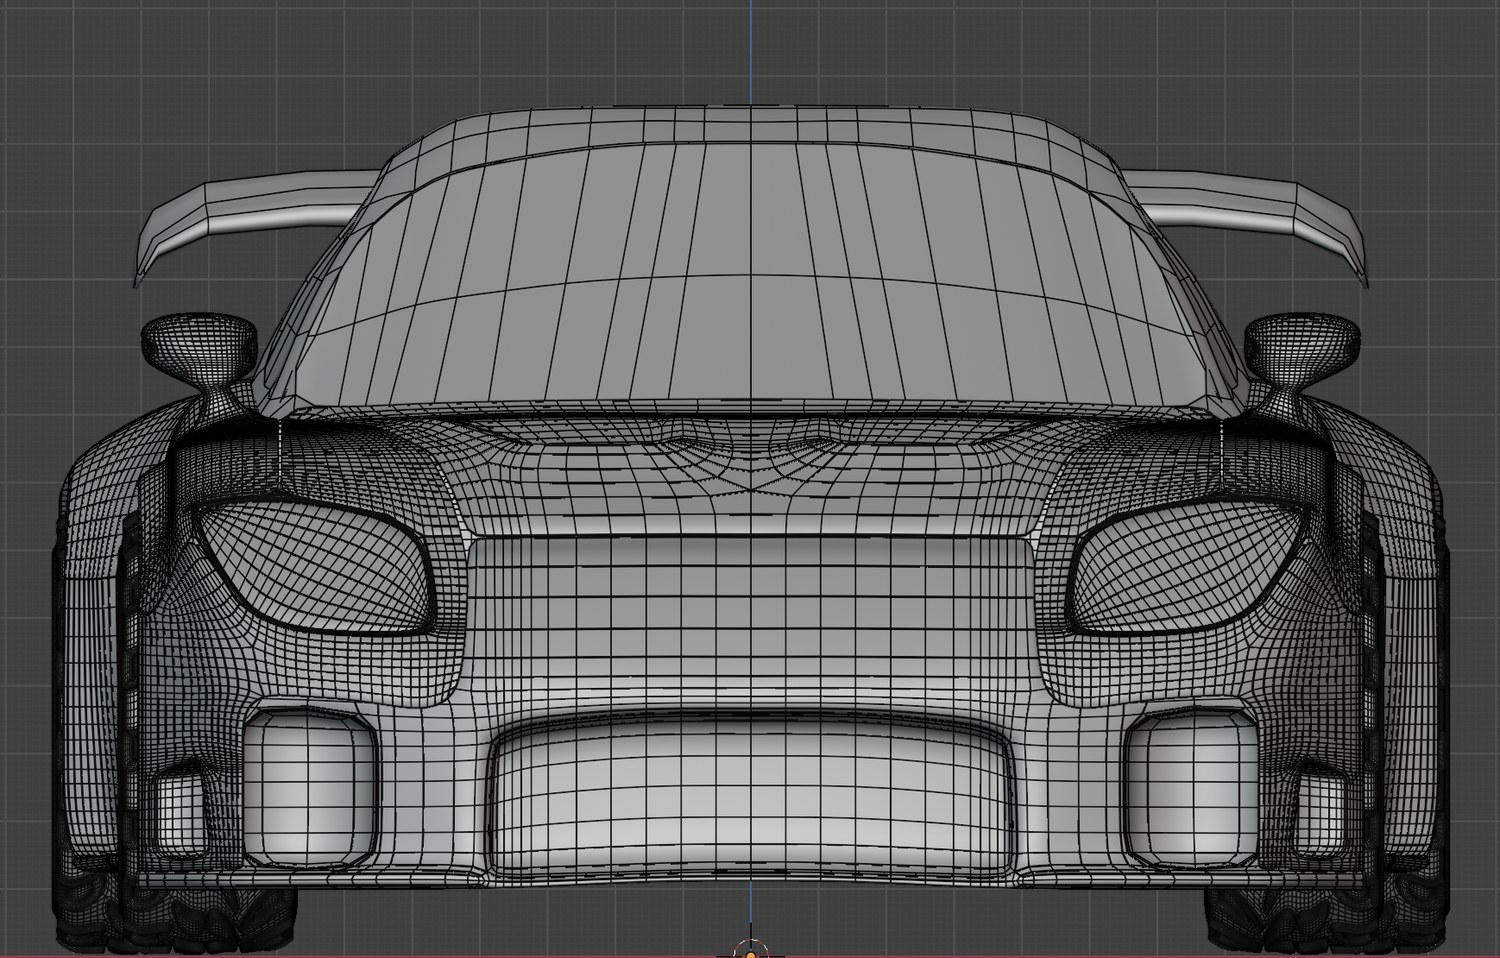
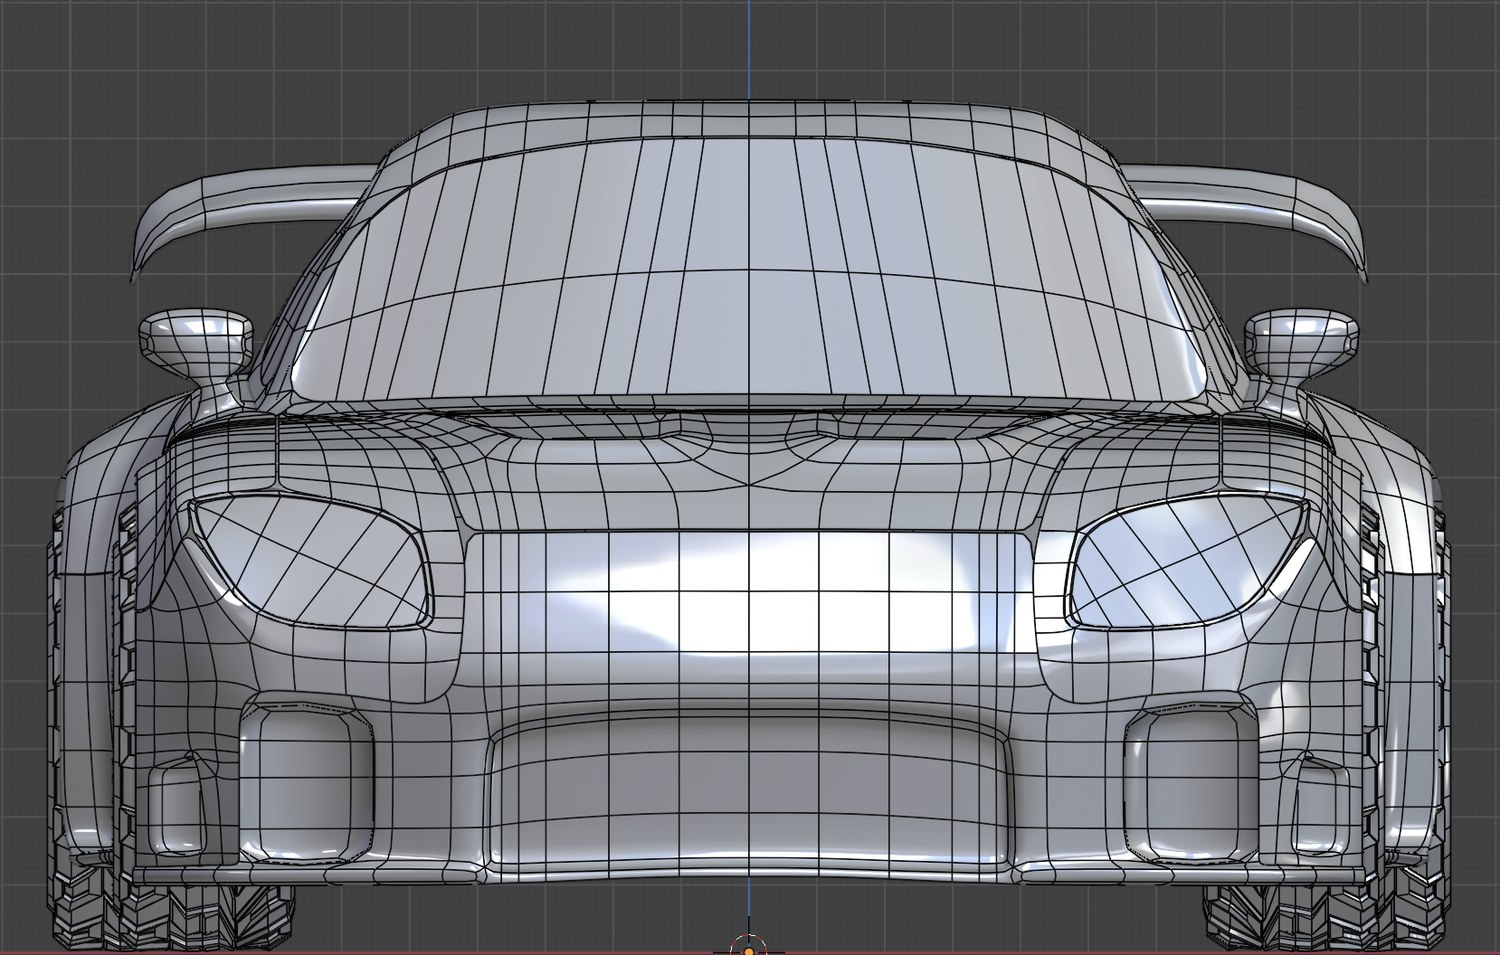
Add files via upload

diff --git a/index.html b/index.html
@@ -335,11 +335,6 @@
       <a class="card" href="making-birthday19.html" aria-label="小竹竜ノ介19歳誕生日予告のメイキングへ" data-ov-eyebrow="BIRTHDAY TEASER — 19歳・青春映画 / 2023" data-ov-title="小竹竜ノ介19歳誕生日予告" data-ov-sub="「5月31日小竹竜ノ介の誕生日だってよ」／青春映画風" data-ov-tags="実写映像,映画予告,誕生日予告" data-ov-text="大学という新環境で『質の高い動画を作る面白いやつがいる』と思わせ、誕生日を祝ってもらう——明確な目的で作った青春映画風の予告。走って転んでまた走る構成で最後まで見せ、実際に人脈が広がった自信作です。"><img src="https://img.youtube.com/vi/PqgRY7M-S2M/maxresdefault.jpg" onerror="this.onerror=null;this.src='https://img.youtube.com/vi/PqgRY7M-S2M/hqdefault.jpg'" alt="小竹竜ノ介19歳誕生日予告"><div class="ctag">映画予告</div><span>小竹竜ノ介19歳誕生日予告</span></a>
       <a class="card" href="making-birthday20.html" aria-label="小竹竜ノ介20歳誕生日予告のメイキングへ" data-ov-eyebrow="BIRTHDAY TEASER — 20歳・夢の問い直し / 2024" data-ov-title="小竹竜ノ介20歳誕生日予告" data-ov-sub="「スメルズライクティーンスピリット」／夢を問い直す物語の予告" data-ov-tags="実写映像,映画予告,誕生日予告" data-ov-text="20歳の節目に、夢を見失った青年コタケの前へ10歳のコタケがタイムスリップ。二人三脚でゲーム制作に挑む物語の予告編。「あくまで誕生日予告」の縛りを初めて解き、10歳の自分をCG合成（UEアセット＋自室スキャン）で隣に立たせた挑戦作です。"><img src="https://img.youtube.com/vi/Nx8aw06uRGk/maxresdefault.jpg" onerror="this.onerror=null;this.src='https://img.youtube.com/vi/Nx8aw06uRGk/hqdefault.jpg'" alt="小竹竜ノ介20歳誕生日予告"><div class="ctag">映画予告</div><span>小竹竜ノ介20歳誕生日予告</span></a>
       <a class="card" href="making-birthday21.html" aria-label="小竹竜ノ介21歳誕生日予告のメイキングへ" data-ov-eyebrow="BIRTHDAY TEASER — 21歳・選手紹介風CM / 2025" data-ov-title="小竹竜ノ介21歳誕生日予告" data-ov-sub="「21歳拳で」／格闘技の選手紹介風CM" data-ov-tags="実写映像,30秒CM,誕生日予告" data-ov-text="20歳ごろから日常的にネタを練るように。『21歳拳で』という有名ネットミームを決め台詞に、格闘技の選手紹介風の30秒CMへ。初のスタジオ撮影・予算投入・Log撮影、Blender背景への合成と、技術的な挑戦が一気に増えた一本です。"><img src="https://img.youtube.com/vi/ruV5QP93_dk/maxresdefault.jpg" onerror="this.onerror=null;this.src='https://img.youtube.com/vi/ruV5QP93_dk/hqdefault.jpg'" alt="小竹竜ノ介21歳誕生日予告"><div class="ctag">30秒CM</div><span>小竹竜ノ介21歳誕生日予告</span></a>
-      <div class="card" tabindex="0" role="button"><div class="ctag">ハイライト</div><span>イベント・ハイライト</span></div>
-      <div class="card" tabindex="0" role="button"><div class="ctag">MV</div><span>ミュージックビデオ</span></div>
-      <div class="card" tabindex="0" role="button"><div class="ctag">広告</div><span>プロモーション映像</span></div>
-      <div class="card" tabindex="0" role="button"><div class="ctag">ドキュメント</div><span>ドキュメント映像</span></div>
-      <div class="card" tabindex="0" role="button"><div class="ctag">種別</div><span>作品 05</span></div>
     </div>
   </section>
 
@@ -370,14 +365,10 @@
 
     <div class="more-lbl">CG — 他の作品</div>
     <div class="strip">
-      <div class="card" tabindex="0" role="button"><div class="ctag">ショート</div><span>3DショートフィルムＡ</span></div>
       <a class="card" href="making-sneaker.html" aria-label="スニーカー3DCGモデルのメイキングへ" data-ov-eyebrow="3DCG MODELING — スニーカー / 2023" data-ov-title="スニーカー 3DCGモデル" data-ov-sub="実物リファレンスからのフルCG制作" data-ov-tags="CG,服飾,モデリング" data-ov-text="自分で購入したスニーカーの実物を参考に、Blenderで一から3DCGモデルを制作。テクスチャはProcreateで手描きで自作しました。"><img src="sneaker-thumb.jpg" alt="スニーカー 3DCGモデル"><div class="badge3d" data-glb="sneaker.glb" data-poster="sneaker-render.jpg">3D</div><div class="ctag">服飾</div><span>スニーカー 3DCGモデル</span></a>
       <a class="card" href="making-first3d.html" aria-label="初めてのモデリングのメイキングへ" data-ov-eyebrow="3DCG MODELING — キャラクター / 2019" data-ov-title="初めてのモデリング" data-ov-sub="はじめて触れたBlender ／ 動かせる3Dモデル" data-ov-tags="CG,キャラクター,モデリング" data-ov-text="実写での映像制作に慣れてきた頃、表現の幅を広げたくて3DCGに挑戦。チュートリアルに沿ってモデリング〜スキニングまで行った、はじめてのBlender作品です。"><img src="first3d-thumb.jpg" alt="初めてのモデリング"><div class="badge3d" data-glb="first3d.glb" data-poster="first3d-render.jpg">3D</div><div class="ctag">キャラクター</div><span>初めてのモデリング</span></a>
       <a class="card" href="making-rx7.html" aria-label="RX-7 VEILSIDE仕様 3DCGモデルのメイキングへ" data-ov-eyebrow="3DCG MODELING — RX-7 VEILSIDE仕様 / 2021" data-ov-title="RX-7 VEILSIDE仕様 3DCGモデル" data-ov-sub="“ハンのRX-7”の再現（非公式・ファン制作）" data-ov-tags="CG,車,モデリング" data-ov-text="高2の夏『1日1モデリングチャレンジ』の締めくくり。『ワイルド・スピード』のハンのRX-7（VEILSIDE仕様）を3面図から起こし、映画『カーズ』冒頭を再現する動画にした習作です。"><img src="rx7-render.jpg" alt="RX-7 VEILSIDE仕様 3DCGモデル"><div class="badge3d" data-glb="rx7.glb" data-poster="rx7-render.jpg">3D</div><div class="ctag">車</div><span>RX-7 VEILSIDE仕様 3DCGモデル</span></a>
       <a class="card" href="making-challenge.html" aria-label="1日1モデリング 30日チャレンジのメイキングへ" data-ov-eyebrow="30-DAY CHALLENGE — Blender習得 / 2021" data-ov-title="1日1モデリング 30日チャレンジ" data-ov-sub="Blender習得のための30日間" data-ov-tags="CG,モデリング" data-ov-text="高2の夏、Blender習得のため『30日間・1日1モデリング』を決意しInstagramに毎日投稿。ガリガリくんに始まり、27日目のRX-7まで上達を重ねた30日間の記録です。"><img src="challenge-thumb.jpg" alt="1日1モデリング 30日チャレンジ"><div class="ctag">モデリング</div><span>1日1モデリング 30日チャレンジ</span></a>
-      <div class="card" tabindex="0" role="button"><div class="ctag">プロダクト</div><span>プロダクトCG</span></div>
-      <div class="card" tabindex="0" role="button"><div class="ctag">環境</div><span>環境・背景CG</span></div>
-      <div class="card" tabindex="0" role="button"><div class="ctag">モーション</div><span>モーショングラフィクス</span></div>
     </div>
   </section>
 
@@ -409,10 +400,6 @@
     <div class="strip">
       <a class="card" href="making-ibsevent.html" aria-label="校内イベントの撮影・配信・運営のメイキングへ" data-ov-eyebrow="LIVE &amp; EVENT — 校内イベントの撮影・配信 / 2017–2022" data-ov-title="校内イベントの撮影・配信・運営" data-ov-sub="カメラマン・スイッチャー・MC" data-ov-tags="ライブ配信,イベント,IBS" data-ov-text="体育祭・文化祭・入学式・卒業式などの校内イベントで、撮影・スイッチング・MC・配信を担当。カメラから全体の俯瞰へ、「なんでもやる」の原点になった経験です。"><img src="s2.jpg" alt="校内イベントの撮影・配信・運営"><div class="ctag">イベント</div><span>校内イベントの撮影・配信・運営</span></a>
       <a class="card" href="making-nyugaku2019.html" aria-label="入学式2019 OPのメイキングへ" data-ov-eyebrow="MC — 入学式の司会進行 / 2019" data-ov-title="入学式2019 OP" data-ov-sub="MC・進行" data-ov-tags="ライブ配信,MC,イベント,IBS" data-ov-text="郁文館の入学式恒例「Welcome VTR」に出演し、MCとしてVTRと合わせたステージ進行で新入生を歓迎。実際にMCをしている姿が見られる映像です。"><img src="https://img.youtube.com/vi/Gv1qoxDBubU/maxresdefault.jpg" onerror="this.onerror=null;this.src='https://img.youtube.com/vi/Gv1qoxDBubU/hqdefault.jpg'" alt="入学式2019 OP"><div class="ctag">MC</div><span>入学式2019 OP</span></a>
-      <div class="card" tabindex="0" role="button"><div class="ctag">音楽</div><span>音楽イベント配信</span></div>
-      <div class="card" tabindex="0" role="button"><div class="ctag">マルチカメラ</div><span>マルチカメラ中継</span></div>
-      <div class="card" tabindex="0" role="button"><div class="ctag">トーク</div><span>トークイベント配信</span></div>
-      <div class="card" tabindex="0" role="button"><div class="ctag">種別</div><span>実績 04</span></div>
     </div>
   </section>
 
@@ -588,6 +575,6 @@
     });
   })();
   </script>
-  <div class="buildver">build 2026.06.27 13:36 JST</div>
+  <div class="buildver">build 2026.06.27 14:29 JST</div>
 </body>
 </html>

diff --git a/making-rx7.html b/making-rx7.html
@@ -118,6 +118,7 @@
   h1,h3{text-wrap:balance}
   .rv{opacity:0;transform:translateY(16px);transition:opacity .6s ease,transform .6s cubic-bezier(.2,.7,.2,1)}
   .rv.in{opacity:1;transform:none}
+  .rigvid{width:100%;aspect-ratio:16/9;display:block;margin:18px 0 0;border:1px solid var(--line);border-radius:var(--r);background:#000;object-fit:cover}
   @media(prefers-reduced-motion:reduce){*{animation:none!important;transition-duration:.01ms!important}.rv{opacity:1;transform:none}}
 </style>
 </head>
@@ -182,6 +183,18 @@
              onerror="this.onerror=null;this.src='https://img.youtube.com/vi/2Xtg3e1T2Xs/hqdefault.jpg'" alt="カーズ冒頭の再現動画">
         <div class="play"></div>
       </div>
+    </section>
+
+    <!-- リグ -->
+    <section class="feature rv">
+      <div class="lbl">RIG</div>
+      <h3>タイヤが地面をグリップする仕掛け</h3>
+      <p>動かす段でこだわったのが、タイヤの転がりです。車体全体を前進させる root ボーンのY軸方向の移動量を、タイヤ用ボーンの回転にコンストレイントで連動させました。進んだ距離に応じてタイヤがちょうど回るので、地面を滑らずにグリップして走っているように見えます。移動と回転を手付けで合わせるのではなく、移動量からタイヤの回転を自動で導く——シンプルなリグですが、走りの説得力がぐっと増しました。</p>
+      <video class="rigvid" autoplay loop muted playsinline preload="metadata">
+        <source src="rx7-rig.webm" type="video/webm">
+        <source src="rx7-rig.mp4" type="video/mp4">
+      </video>
+      <p class="cap">root ボーンのY軸移動に、タイヤの回転をコンストレイントで連動（メイキング）。</p>
     </section>
 
     <!-- スペック -->

diff --git a/works.html b/works.html
@@ -392,10 +392,6 @@
       ov:{eyebrow:"NEWS — 校内放送VTR / 2018", sub:"文化祭「郁秋祭」2018 ダイジェスト", text:"郁文館中学・高校の文化祭「郁秋祭」2018の結果をダイジェストで紹介した校内放送VTR。私が初めて手がけた映像制作です。"}
     },
     // ▼▼▼ 以下は表示サンプル。実際の作品に置き換えてください ▼▼▼
-    {title:"（例）3DCGショートフィルム", tags:["CG","Blender","シネマティック"], period:"2025年 秋", date:"2025-10", url:"#", making:"", thumb:""},
-    {title:"（例）音楽イベント ライブ配信", tags:["ライブ配信","マルチカメラ"], period:"2025年 夏", date:"2025-08", url:"#", making:"", thumb:""},
-    {title:"（例）プロモーション映像", tags:["実写映像","30秒","広告"], period:"2025年 春", date:"2025-04", url:"#", making:"", thumb:""},
-    {title:"（例）ミュージックビデオ", tags:["実写映像","MV"], period:"2024年", date:"2024-09", url:"#", making:"", thumb:""}
   ];
 
   const grid = document.getElementById("grid");
@@ -494,7 +490,8 @@
       // サムネクリックでその場再生
       const thumbEl = card.querySelector(".thumb.playable");
       if(thumbEl){
-        const playVid=()=>{
+        const playVid=(e)=>{
+          if(e&&e.target&&e.target.closest&&e.target.closest(".badge3d"))return;
           if(thumbEl.classList.contains("playing"))return;
           const ifr=document.createElement("iframe");
           ifr.src="https://www.youtube.com/embed/"+thumbEl.dataset.yt+"?autoplay=1&rel=0&modestbranding=1&playsinline=1";
@@ -616,6 +613,6 @@
     });
   })();
   </script>
-  <div class="buildver">build 2026.06.27 13:36 JST</div>
+  <div class="buildver">build 2026.06.27 14:29 JST</div>
 </body>
 </html>